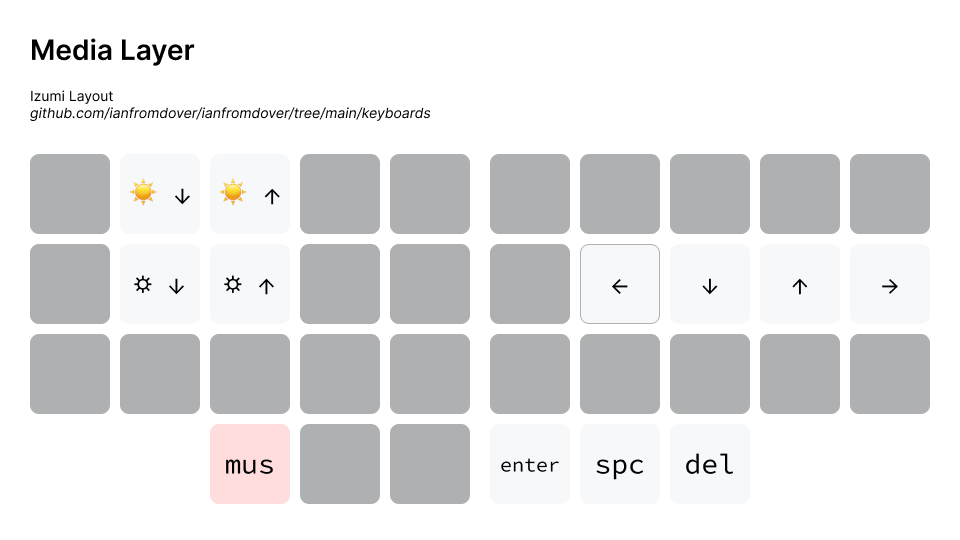
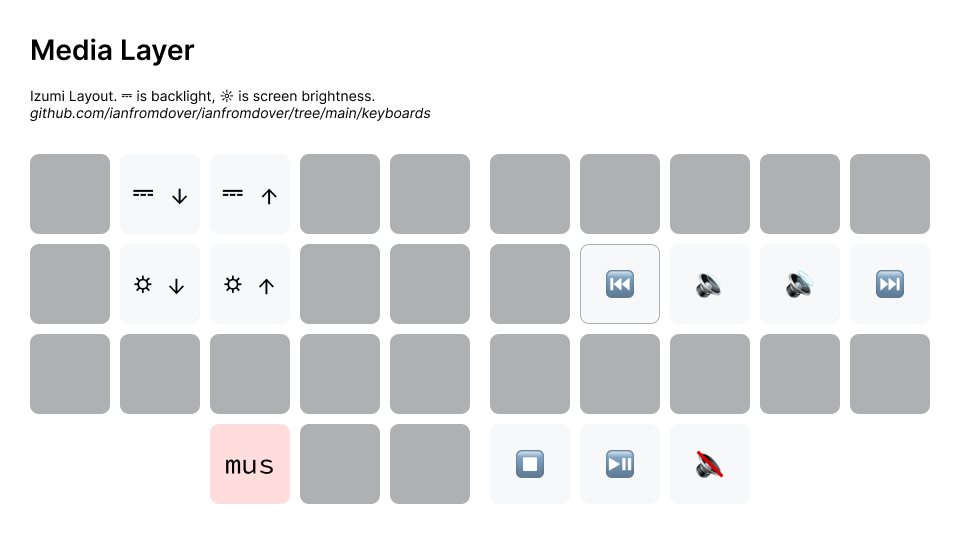
Update images, moved copyPst to LH

diff --git a/keyboards/README.md b/keyboards/README.md
@@ -7,9 +7,6 @@
 - navigation layer has arrow keys, `home`, `end`, `copy`, `paste`, and many useful shortcuts
 - favourite feature: control music volume and playback directly from the home row
 
-### All
-![all](./imgs/all.png)
-
 ### Base - Colemak DH Matrix
 Also known by more avid keyboard enthusiasts as 'alphas'.
 
@@ -21,11 +18,11 @@ This layer is for Unity's WASD and Vim (until kmonad gets repeat key support). F
 
 *Work in progress*
 
-![qwerty]()
+![qwerty](./imgs/qwerty.png)
 
 ### Numbers and Symbols
 
-![nsm](./imgs/num.png)
+![nsm](./imgs/numsym.png)
 
 ### Navigation
 
@@ -37,7 +34,7 @@ This layer is for Unity's WASD and Vim (until kmonad gets repeat key support). F
 
 ### Function
 
-![func]()
+![func](./imgs/fn.png)
 
 # Running the Izumi Layout
 
